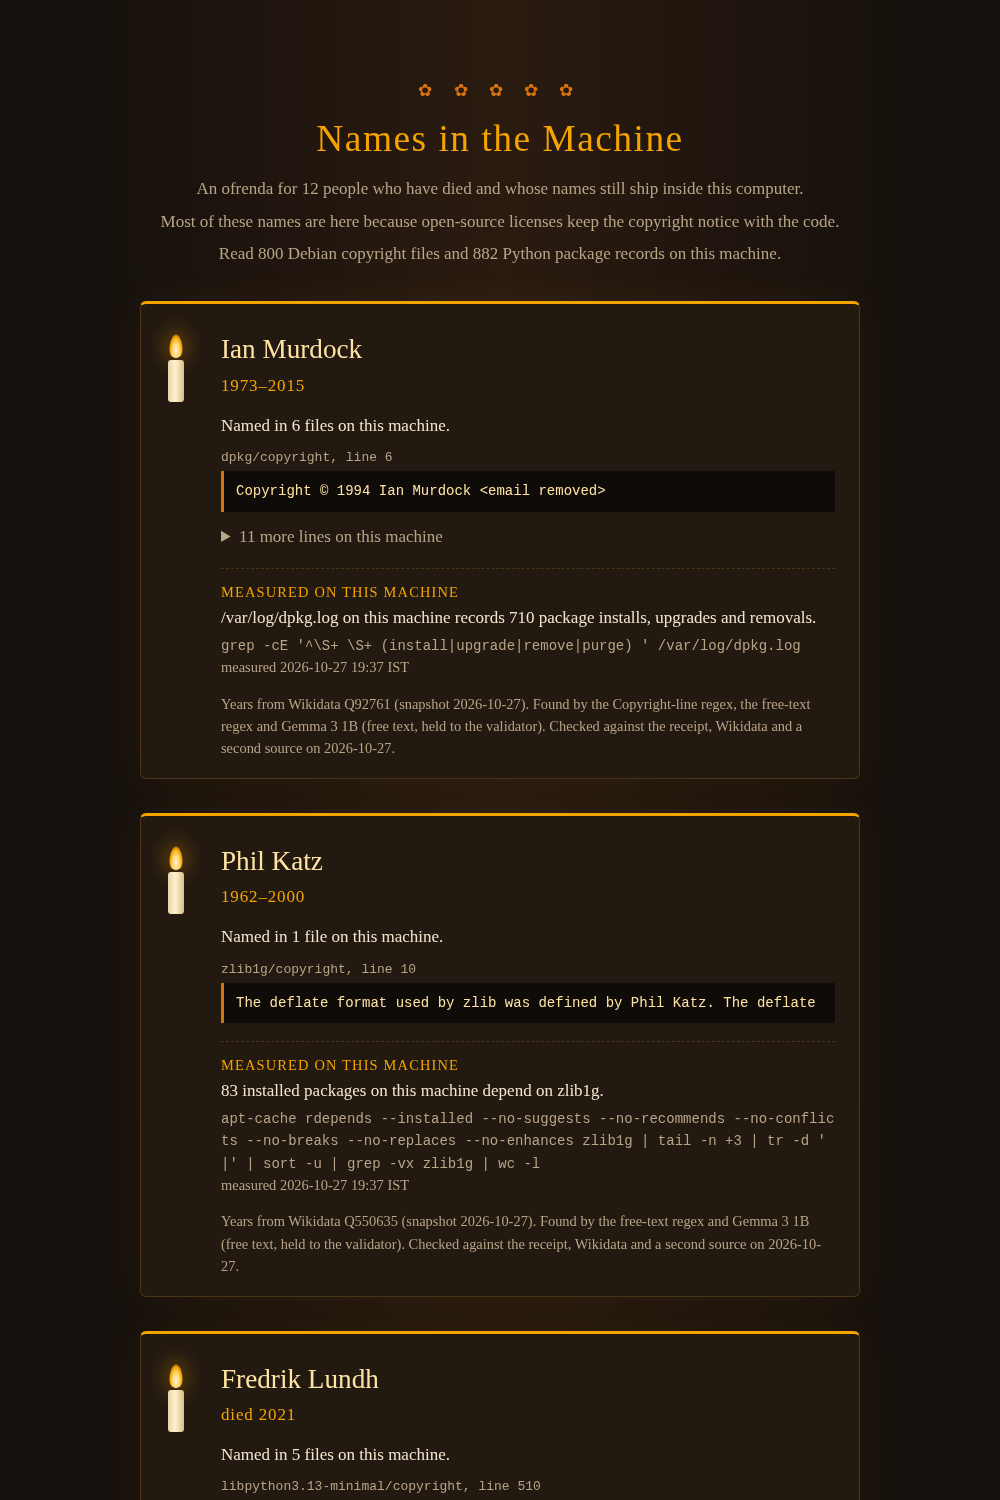
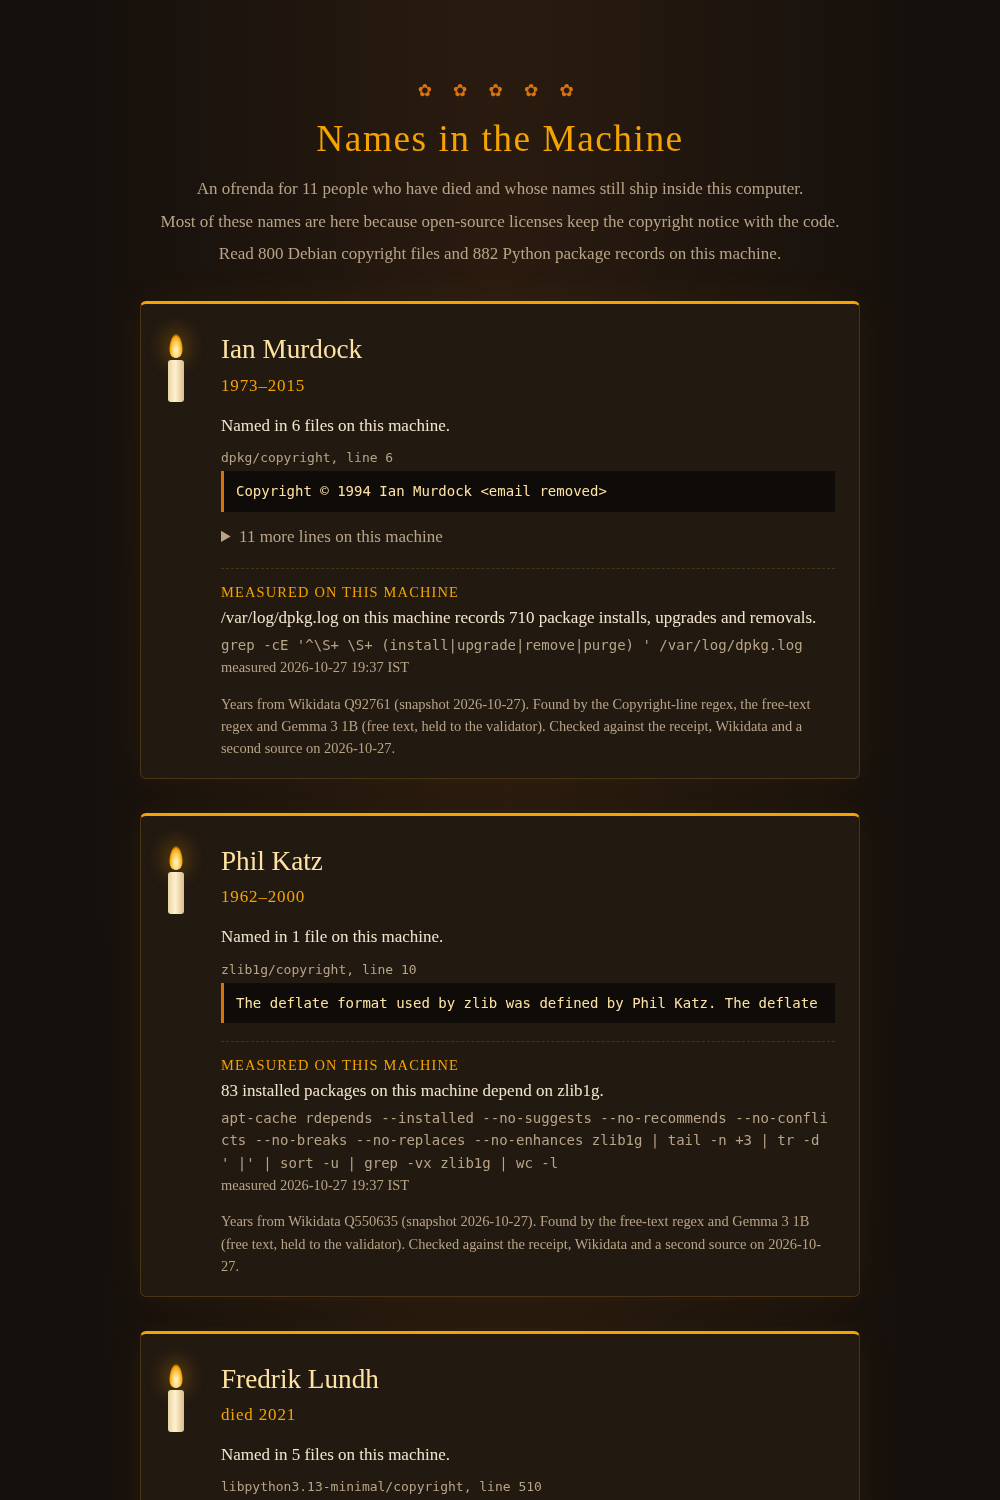
Withdraw one entry, say the review is AI-assisted, use invented names in fixtures
- Add `nitm verify --withdraw QID --reason ...`: an approved entry leaves
  verified.json and the page, and the decision is kept locally and counted.
- The page and verified.json now say the identity checks were AI-assisted
  and the author's own final review is pending.
- Test fixtures and docs name no living person; the names and emails are
  invented. The snapshot fixture records for the two homonym cases are invented.
- Regenerate the page and the screenshot: 11 cards.
- Log section 18 records the withdrawal and the new counts.

diff --git a/docs/ofrenda.html b/docs/ofrenda.html
@@ -56,7 +56,7 @@ footer a, .left-off a { color: var(--marigold); }
 <header>
   <p class="garland" aria-hidden="true">✿ ✿ ✿ ✿ ✿</p>
   <h1>Names in the Machine</h1>
-  <p>An ofrenda for 12 people who have died and whose names still ship inside this computer.</p>
+  <p>An ofrenda for 11 people who have died and whose names still ship inside this computer.</p>
   <p>Most of these names are here because open-source licenses keep the copyright notice with the code.</p>
   <p>Read 800 Debian copyright files and 882 Python package records on this machine.</p>
 </header>
@@ -162,16 +162,6 @@ footer a, .left-off a { color: var(--marigold); }
   <div class="still"><p class="still-label">Measured on this machine</p><p>8 installed packages on this machine depend on libnettle8t64.</p><p class="cmd"><code>apt-cache rdepends --installed --no-suggests --no-recommends --no-conflicts --no-breaks --no-replaces --no-enhances libnettle8t64 | tail -n +3 | tr -d &#x27; |&#x27; | sort -u | grep -vx libnettle8t64 | wc -l</code><br>measured 2026-10-27 19:37 IST</p></div>
   <p class="source">Years from Wikidata Q2167581 (snapshot 2026-10-27). Found by the Copyright-line regex. Checked against the receipt, Wikidata and a second source on 2026-10-27.</p>
 </article>
-<article class="card" id="Qwithdrawn">
-  <div class="candle" aria-hidden="true"><span class="flame"></span><span class="wax"></span></div>
-  <h2>[withdrawn]</h2>
-  <p class="years">1994–2026</p>
-  <p class="named">Named in 3 files on this machine.</p>
-  <figure class="receipt"><figcaption>libharfbuzz0b/copyright, line 128</figcaption><pre><code>Copyright: 2020, [withdrawn]</code></pre></figure>
-  <details><summary>2 more lines on this machine</summary><ul><li><span class="where">libharfbuzz-icu0/copyright:128</span><code>Copyright: 2020, [withdrawn]</code></li><li><span class="where">libharfbuzz-subset0/copyright:128</span><code>Copyright: 2020, [withdrawn]</code></li></ul></details>
-  
-  <p class="source">Years from Wikidata Qwithdrawn (snapshot 2026-10-27). Found by the Copyright-line regex. Checked against the receipt, Wikidata and a second source on 2026-10-27.</p>
-</article>
 <article class="card" id="Q133867446">
   <div class="candle" aria-hidden="true"><span class="flame"></span><span class="wax"></span></div>
   <h2>Thomas Lord</h2>
@@ -182,9 +172,10 @@ footer a, .left-off a { color: var(--marigold); }
   
   <p class="source">Years from Wikidata Q133867446 (snapshot 2026-10-27). Found by the Copyright-line regex, the free-text regex and Gemma 3 1B (free text, held to the validator). Checked against the receipt, Wikidata and a second source on 2026-10-27.</p>
 </article>
-<section class="left-off"><h2>Left off</h2><ul><li>579 names matched only people on Wikidata with no death date recorded. Left off, not guessed.</li><li>3 names matched a person who has died, but with no software occupation and no link to the software in the receipt, so the match could not be checked. Left off.</li><li>5 matches turned down at review.</li><li>Everyone else stays a number: 5,569 name-shaped strings passed the validator, and living people are never named here.</li></ul></section>
+<section class="left-off"><h2>Left off</h2><ul><li>579 names matched only people on Wikidata with no death date recorded. Left off, not guessed.</li><li>3 names matched a person who has died, but with no software occupation and no link to the software in the receipt, so the match could not be checked. Left off.</li><li>5 matches turned down at review.</li><li>1 approved match withdrawn by the author before publishing.</li><li>Everyone else stays a number: 5,569 name-shaped strings passed the validator, and living people are never named here.</li></ul></section>
 </main>
 <footer>
+  <p><strong>Review status:</strong> The identity checks for these cards were AI-assisted: agents checked each match against the receipt, Wikidata and a second source, and a second agent tried to refute it. The author&#x27;s own final review is pending.</p>
   <p>Every line quoted above is copied from a file on this machine, with email addresses and other people's names removed. A line that runs onto the next is joined with " / ". Years come from a Wikidata snapshot taken 2026-10-27 (CC0). No model wrote any of the text on this page.</p>
   <p><strong>Corrections:</strong> if a card here is wrong, or a family asks, it comes down at once. Open an issue at <a href="https://github.com/Anandb71/names-in-the-machine/issues">https://github.com/Anandb71/names-in-the-machine/issues</a>.</p>
   <p>Made with <a href="https://github.com/Anandb71/names-in-the-machine">names-in-the-machine</a>.</p>

diff --git a/tests/fixtures/make_snapshot.py b/tests/fixtures/make_snapshot.py
@@ -16,10 +16,10 @@ OUT = Path(__file__).resolve().parent / "snapshot"
 # Ian Murdock, Phil Katz, Fredrik Lundh, Aaron Swartz, Thomas Lord: real records from data/deceased.json.
 KEEP = ["Q92761", "Q550635", "Q110051708", "Q302817", "Q133867446"]
 
-# Rory Smythe (Q990000001) is not in the real snapshot: he has no software occupation and no link
-# to software. He is here, with his Wikidata dates and occupations as of the snapshot date, to
-# show that a matching name alone is never enough.
-RANDY_SMITH = {
+# Rory Smythe (Q990000001) is an invented person, not in the real snapshot: a basketball coach with no
+# software occupation and no link to software. He stands in for a real homonym, to show that a matching
+# name alone is never enough. The qid is made up.
+RORY_SMYTHE = {
     "qid": "Q990000001",
     "label": "Rory Smythe",
     "aliases": [],
@@ -30,7 +30,7 @@ RANDY_SMITH = {
     "software": [],
 }
 
-# Tom Vane (Q990000002) has the alias "Thomas G. Vane" and no death date on Wikidata.
+# Tom Vane (Q990000002) is invented too: alias "Thomas G. Vane", no death date, so he is never listed.
 # Only the hashes of the name keys are stored, as in the real data/no_death_date.txt.
 NO_DEATH_DATE_NAMES = ["Tom Vane", "Thomas G. Vane"]
 
@@ -40,7 +40,7 @@ def main() -> None:
     people = {p["qid"]: p for p in raw["people"]}
     meta = dict(raw["meta"])
     meta["fixture"] = "cut from data/deceased.json by tests/fixtures/make_snapshot.py; Rory Smythe added as a homonym"
-    rows = [people[q] for q in KEEP] + [RANDY_SMITH]
+    rows = [people[q] for q in KEEP] + [RORY_SMYTHE]
     OUT.mkdir(parents=True, exist_ok=True)
     (OUT / "deceased.json").write_text(json.dumps({"meta": meta, "people": rows}, ensure_ascii=False, indent=1) + "\n", encoding="utf-8")
     hashes = sorted({key_hash(name_key(n)) for n in NO_DEATH_DATE_NAMES})

diff --git a/nitm/page.py b/nitm/page.py
@@ -176,6 +176,9 @@ def _left_off(summary: dict[str, Any] | None, review_counts: dict[str, int] | No
     rejected = int((review_counts or {}).get("rejected", 0))
     if rejected:
         items.append(f"{rejected:,} match{'es' if rejected != 1 else ''} turned down at review.")
+    withdrawn = int((review_counts or {}).get("withdrawn", 0))
+    if withdrawn:
+        items.append(f"{withdrawn:,} approved match{'es' if withdrawn != 1 else ''} withdrawn by the author before publishing.")
     names = int(((summary or {}).get("names") or {}).get("unique_names_after_validator", 0))
     if names:
         items.append(f"Everyone else stays a number: {names:,} name-shaped strings passed the validator, and living people are never named here.")
@@ -202,6 +205,9 @@ def render(
     snap = ""
     if snapshot_meta:
         snap = f"Years come from a Wikidata snapshot taken {_e(str(snapshot_meta.get('retrieved_finished', ''))[:10])} (CC0)."
+    status = ""
+    if verified.get("review_status"):
+        status = f"<p><strong>Review status:</strong> {_e(str(verified['review_status']))}</p>"
     cards = "".join(card(e) for e in entries)
     if not cards:
         cards = '<p class="named">No verified entries yet.</p>'
@@ -227,6 +233,7 @@ def render(
 {_left_off(summary, review_counts)}
 </main>
 <footer>
+  {status}
   <p>Every line quoted above is copied from a file on this machine, with email addresses and other people's names removed. A line that runs onto the next is joined with " / ". {snap} No model wrote any of the text on this page.</p>
   <p><strong>Corrections:</strong> if a card here is wrong, or a family asks, it comes down at once. Open an issue at <a href="{ISSUES_URL}">{_e(ISSUES_URL)}</a>.</p>
   <p>Made with <a href="{REPO_URL}">names-in-the-machine</a>.</p>

diff --git a/tests/test_page.py b/tests/test_page.py
@@ -126,3 +126,28 @@ def test_page_has_corrections_line_and_left_off_counts(world):
 def test_no_model_wrote_the_page(world):
     assert "No model wrote any of the text on this page." in world["html"]
     assert ANSWERS  # the fake model was used for this world
+
+
+def test_withdrawn_person_leaves_the_page_and_is_counted(world):
+    verified = json.loads(json.dumps(world["verified"]))
+    local = {}
+    assert review.withdraw(verified, local, "Q550635", "too recent to show") == "Phil Katz"
+    assert [e["qid"] for e in verified["people"]] == ["Q92761", "Q110051708"]
+    assert local["decisions"]["Q550635"]["decision"] == "withdrawn"
+    assert review.review_counts(local) == {"rejected": 0, "withdrawn": 1}
+    with pytest.raises(ValueError):
+        review.withdraw(verified, local, "Q550635", "again")  # already gone
+    with pytest.raises(ValueError):
+        review.withdraw(verified, local, "Q92761", "  ")  # a reason is required
+    html = page.render(verified, review_counts=review.review_counts(local))
+    assert "Phil Katz" not in html
+    assert "1 approved match withdrawn by the author before publishing." in html
+
+
+def test_review_status_is_shown_and_never_claims_a_human_review(world):
+    verified = json.loads(json.dumps(world["verified"]))
+    assert "Review status" not in world["html"]
+    verified["review_status"] = "Identity checks were AI-assisted; the author's own review is pending."
+    html = page.render(verified)
+    assert "Review status:</strong> Identity checks were AI-assisted; the author&#x27;s own review is pending." in html
+    assert page.check(html) == []

diff --git a/nitm/cli.py b/nitm/cli.py
@@ -169,6 +169,16 @@ def cmd_verify(args) -> int:
             mark = "decided" if match["qid"] in decided else "open"
             print(f"({mark}) " + review.screen(match, snap.people[match["qid"]], index, len(queue)))
         return 0
+    if args.withdraw:
+        try:
+            name = review.withdraw(verified, local, args.withdraw, args.reason or "")
+        except ValueError as exc:
+            print(f"nitm: {exc}", file=sys.stderr)
+            return 2
+        review.save_json(Path(args.verified), verified)
+        review.save_json(Path(args.local), local)
+        print(f"withdrawn: {name}")
+        return 0
     reviewer = _reviewer(args)
     if not reviewer:
         print("nitm: say who is reviewing: --reviewer NAME (or NITM_REVIEWER, or git config user.name)", file=sys.stderr)
@@ -432,6 +442,7 @@ def build_parser() -> argparse.ArgumentParser:
     v.add_argument("--list", action="store_true", help="show the review queue and stop")
     v.add_argument("--approve", metavar="QID", help="approve one match without the prompt")
     v.add_argument("--reject", metavar="QID", help="turn down one match without the prompt")
+    v.add_argument("--withdraw", metavar="QID", help="take an approved entry off the page (needs --reason)")
     v.add_argument("--reason")
     v.add_argument("--source", help="second-source URL (needed to approve)")
     v.add_argument("--probe", help="still-working probe, e.g. rdepends:zlib1g, dpkg-log:/var/log/dpkg.log, importers:re@/usr/lib/python3.13, or none")

diff --git a/nitm/review.py b/nitm/review.py
@@ -389,6 +389,24 @@ def decide(
     return entry
 
 
+def withdraw(verified: dict[str, Any], local: dict[str, Any], qid: str, reason: str) -> str:
+    """Take one approved entry off the page. Not a rejection: the match is right, the author chooses not to show it.
+
+    The entry leaves verified.json and the decision (with the reason) stays in the local file, so the
+    queue does not offer the match again. Returns the withdrawn person's name.
+    """
+    if not reason.strip():
+        raise ValueError("a withdrawal needs a reason")
+    people = verified.get("people", [])
+    found = [p for p in people if p.get("qid") == qid]
+    if not found:
+        raise ValueError(f"{qid} is not in verified.json")
+    verified["people"] = [p for p in people if p.get("qid") != qid]
+    local.setdefault("decisions", {})[qid] = {"decision": "withdrawn", "reason": reason, "date": today_ist()}
+    return str(found[0].get("name") or qid)
+
+
 def review_counts(local: dict[str, Any]) -> dict[str, int]:
     decisions = local.get("decisions", {})
-    return {"rejected": sum(1 for d in decisions.values() if d.get("decision") == "reject")}
+    return {"rejected": sum(1 for d in decisions.values() if d.get("decision") == "reject"),
+            "withdrawn": sum(1 for d in decisions.values() if d.get("decision") == "withdrawn")}

diff --git a/tests/test_cli.py b/tests/test_cli.py
@@ -58,3 +58,14 @@ def test_eval_run_refuses_unfrozen_labels(tmp_path, capsys):
     assert cli.main(["eval", "freeze"] + args) == 0
     assert cli.main(["eval", "run", "--no-model", "--details", str(tmp_path / "d.jsonl")] + args) == 0
     assert "precision 1.000 · recall 1.000" in capsys.readouterr().out
+
+
+def test_withdraw_removes_an_approved_entry(tmp_path, capsys):
+    scan(tmp_path, capsys)
+    review = ["--verified", str(tmp_path / "verified.json"), "--local", str(tmp_path / "local.json"), "--reviewer", "A Reviewer"]
+    assert cli.main(["verify", "--approve", "Q92761", "--reason", "same person", "--source",
+                     "https://en.wikipedia.org/wiki/Ian_Murdock", "--probe", "none"] + review + common(tmp_path)) == 0
+    assert cli.main(["verify", "--withdraw", "Q92761"] + review + common(tmp_path)) == 2  # needs a reason
+    assert cli.main(["verify", "--withdraw", "Q92761", "--reason", "author's choice"] + review + common(tmp_path)) == 0
+    assert json.loads((tmp_path / "verified.json").read_text())["people"] == []
+    assert json.loads((tmp_path / "local.json").read_text())["decisions"]["Q92761"]["decision"] == "withdrawn"

diff --git a/tests/test_review.py b/tests/test_review.py
@@ -54,7 +54,7 @@ def test_turned_down_matches_stay_local(matches, snap):
                   reason="homonym", reviewer="Anand Biju", snapshot_date="2026-10-27")
     assert verified["people"] == []
     assert local["decisions"]["Q133867446"]["decision"] == "reject"
-    assert review.review_counts(local) == {"rejected": 1}
+    assert review.review_counts(local) == {"rejected": 1, "withdrawn": 0}
 
 
 def test_gate_failures_cannot_be_approved(matches, snap):
@@ -106,7 +106,7 @@ def test_other_peoples_names_are_removed_from_receipts(matches, snap):
     assert "Ian Murdock" in base_files["text"] and review.NAME_MARK in base_files["text"]
     dpkg = next(r for r in entry["receipts"] if r["file"].endswith("dpkg/copyright"))
     assert dpkg["text"] == "Copyright © 1994 Ian Murdock <email removed>" and dpkg["others"] == 0
-    assert "Perens" not in str(entry)
+    assert "Pelham" not in str(entry)
     assert review.publish_problems(entry) == []
 
 

diff --git a/tests/test_match.py b/tests/test_match.py
@@ -23,9 +23,9 @@ def test_murdock_goes_to_review(snap):
     assert statuses(result) == {("Ian Murdock", "review", None)}
 
 
-def test_lane_is_left_off_for_no_death_date(snap):
-    lane = candidate("Thomas G. Vane", "Copyright: 1991-1996, Thomas G. Vane", package="ffmpeg")
-    result = match_candidates([lane], snap)
+def test_vane_is_left_off_for_no_death_date(snap):
+    vane = candidate("Thomas G. Vane", "Copyright: 1991-1996, Thomas G. Vane", package="ffmpeg")
+    result = match_candidates([vane], snap)
     assert result.matches == []  # never offered for review
     assert result.keys_no_death_namesake_only == 1
 

diff --git a/tests/test_scan.py b/tests/test_scan.py
@@ -46,8 +46,8 @@ def test_gemma_junk_is_rejected_with_a_reason(extractor, snap):
 def test_gemma_reaches_a_name_the_regex_misses(extractor, snap):
     result = run(extractor, snap)
     by_method = result.keys_by_method()
-    assert "wayne davison" in by_method["gemma"]
-    assert "wayne davison" not in by_method.get("byline", set())
+    assert "wade davenport" in by_method["gemma"]
+    assert "wade davenport" not in by_method.get("byline", set())
     assert scan.summary(result)["gemma"]["unique_names_only_gemma"] == 1
 
 

diff --git a/tests/test_evalset.py b/tests/test_evalset.py
@@ -8,7 +8,7 @@ from nitm import evalset, gemma, scan
 
 
 def test_score():
-    gold = {"a": {"phil katz"}, "b": {"ian murdock", "bruce perens"}, "c": set()}
+    gold = {"a": {"phil katz"}, "b": {"ian murdock", "bruno pelham"}, "c": set()}
     guess = {"a": {"phil katz"}, "b": {"ian murdock"}, "c": {"james hacker"}}
     assert evalset.score(gold, guess) == {"tp": 2, "fp": 1, "fn": 1, "precision": 0.667, "recall": 0.667}
 

diff --git a/tests/test_text.py b/tests/test_text.py
@@ -49,4 +49,4 @@ def test_shape_two_to_four_tokens():
 def test_key_hash_is_stable_and_short():
     assert key_hash("thomas vane") == key_hash("thomas vane")
     assert len(key_hash("thomas vane")) == 12
-    assert key_hash("thomas vane") != key_hash("tom lane")
+    assert key_hash("thomas vane") != key_hash("tom vane")
